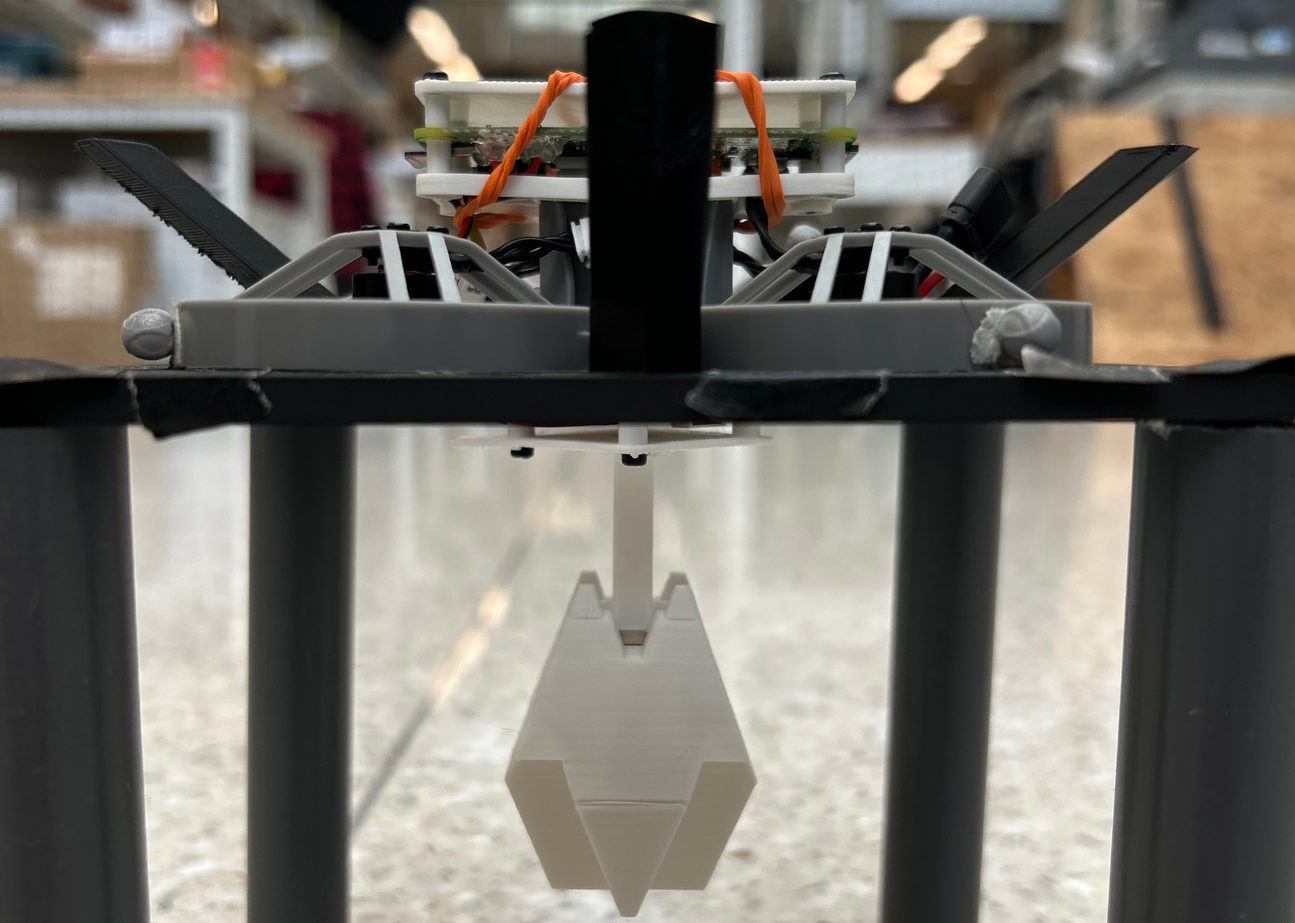
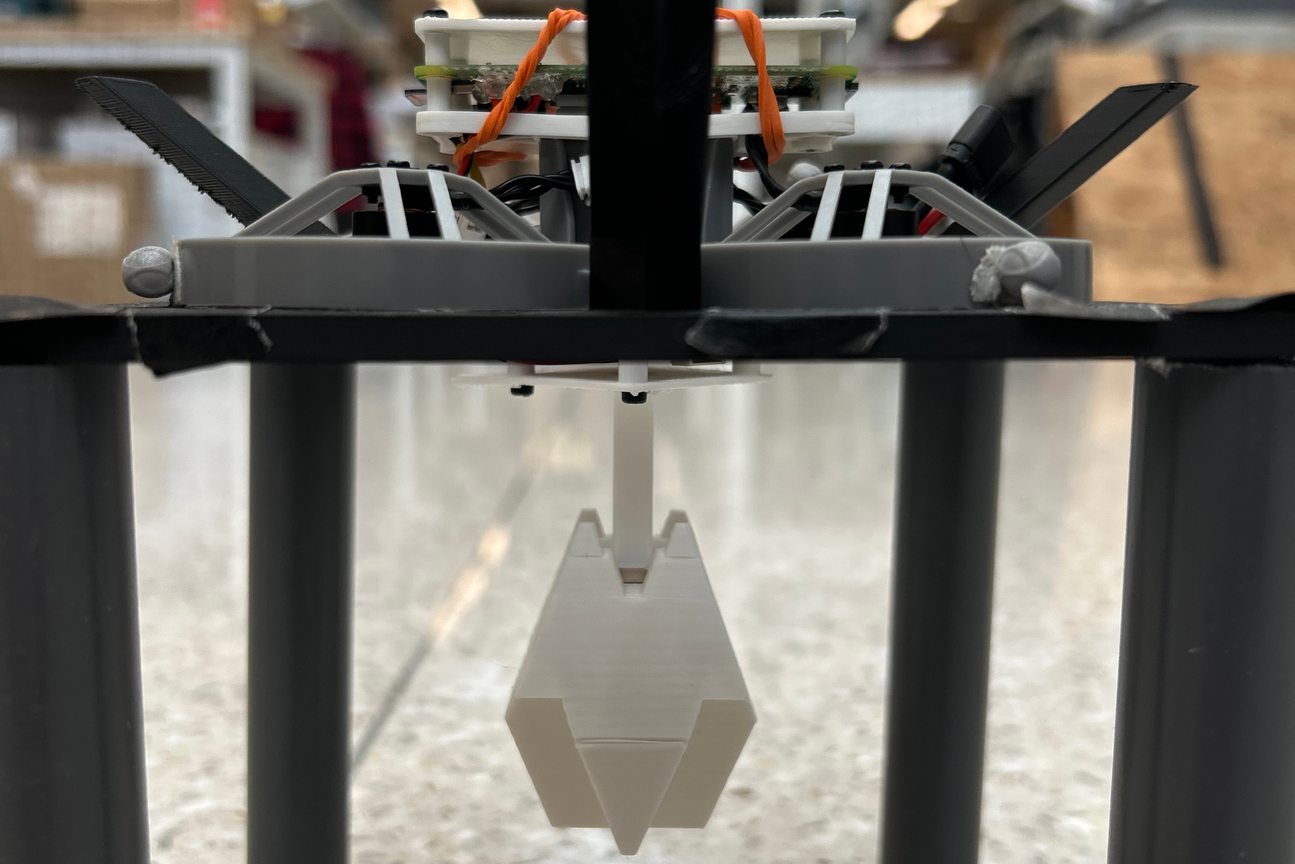
Added details for the drone grippers

diff --git a/content/swarm-construction.md b/content/swarm-construction.md
@@ -30,12 +30,18 @@ Lightweight passive grippers are preferred due to the drones’ weight and contr
 </div>
 <br>
 
+The first version requires the drone to apply a substantial amount of force to pick up the droxel. It also needs to exert the same amount of force and ascend quickly to detach from it.
+
+The second version is too bulky, and even when operated manually, a person must be very careful when sliding in the droxel. Otherwise, it tends to rotate diagonally and get stuck in the frame, preventing the gripper from releasing it.
+
 **Finalized design**:
 <div style="display: flex; justify-content: space-between;">
     <img src="/images/projects/construction/gripperv3.gif" alt="gripperv3" style="width: 48%; height: auto;"/>
     <img src="/images/projects/construction/drox_attached.jpg" alt="a droxel attached to a drone" style="width: 48%; height: auto;"/>
 </div>
 <br>
+
+The final design uses two magnets, one embedded on top of the droxel and the other placed deeper inside the gripper. A small gap between the top of the gripper and its internal magnet reduces the magnetic force, allowing the droxel to detach easily when the drone twists in the yaw direction.
 
 ---
 ## Next Steps
